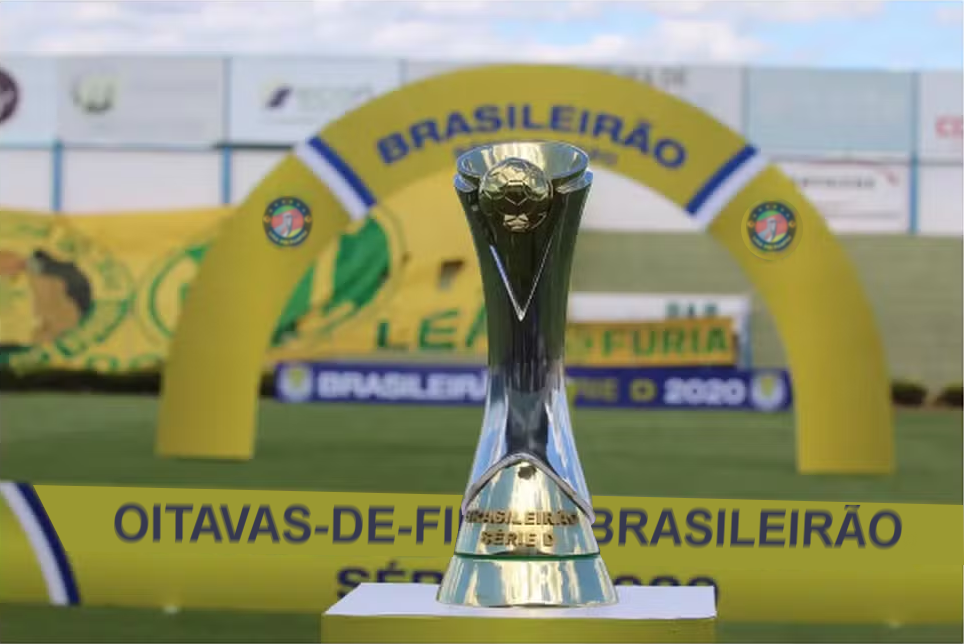
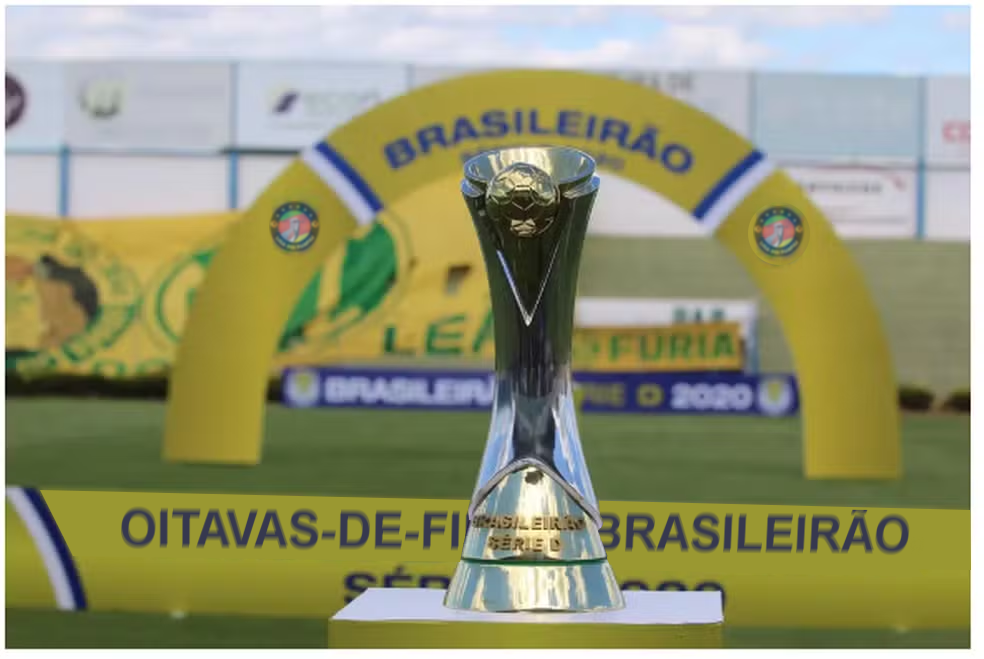
série d

diff --git a/news/news-ano24prejornada29-2.html b/news/news-ano24prejornada29-2.html
@@ -56,10 +56,10 @@
 
 
 <p style="font-family: verdana; font-size: 20px;text-align: end;color: rgb(163, 160, 160);padding-right: 3%;padding-left:3%;text-indent:15%; line-height: 60px;">   
-    <i>Redação Cartola -  01/10/2024 - 09h55min</i>
+    <i>Redação Cartola -  01/10/2024 - 11h35min</i>
 
 
-    <img src="../news/capas-news/reportagem-temp24-prejornada29-1.jpg" style="height:600px;width: 99%;padding-left: 3px;">
+    <img src="../news/capas-news/reportagem-temp24-prejornada29-2.png" style="height:1400px;width: 99%;padding-left: 3px;">
 
 
 <p style="font-family: verdana; font-size: 40px;text-align: justify;color: grey;padding-right: 3%;padding-left:3%;text-indent:15%; line-height: 60px;">    
@@ -68,42 +68,26 @@
 
 
     <p style="font-family: verdana; font-size: 40px;text-align: justify;color: grey;padding-right: 3%;padding-left:3%;text-indent:15%; line-height: 60px;">    
-        Apesar de já classificado, a sexta e última rodada da primeira fase marcará a disputa dos "galáticos" contra o Milan do "Milaneros" pela primeira colocação do grupo.
-        Para tanto, neste confronto, ao Real Madrid só a vitória interessa, já que o Milan entra nesta próxima quinta-feira com um ponto a mais que os merengues (10 pontos),
-         precisando apenas de um empate para assegurar a liderança do quarteto. Lembrando que a liderança do grupo confere o privilégio de jogar contra o segundo colocado 
-         do grupo B com a vantagem de dois empates.  
+        Destes, há varios clubes abertos à contratação de treinadores, aos quais você fica sabendo dos valores através deste <a href="../planos.html">atalho</a>.. 
+        
+        <h2 style="text-align: center; font-family: 'Trebuchet MS'; font-size: 40px; color: rgb(66, 65, 65);">Amazonas e Barcelona como Favoritos</h2>
 
-        <h2 style="text-align: center; font-family: 'Trebuchet MS'; font-size: 40px; color: rgb(66, 65, 65);">Grupo C</h2>
+
 
         <p style="font-family: verdana; font-size: 40px;text-align: justify;color: grey;padding-right: 3%;padding-left:3%;text-indent:15%; line-height: 60px;">    
-            No grupo C temos outros dois clubes classificados para o mata-mata: Internazionale de Milão do "Cearúcho FC", com 10, e o Borrussia Dortumund do 
-            "SER XANTOSKA", com 7, restando Manchester United (Anderson United) e Atlético Madrid (XEIROSO FC) já sem chances de classificação 
-
-            <h2 style="text-align: center; font-family: 'Trebuchet MS'; font-size: 40px;color: rgb(66, 65, 65)">Grupo D</h2>
-
-            <p style="font-family: verdana; font-size: 40px;text-align: justify;color: grey;padding-right: 3%;padding-left:3%;text-indent:15%; line-height: 60px;">    
-                No Grupo "D" temos o Ajax do cartoleiro "UGÃO F.C." como dono da melhor campanha da fase de grupos, com cinco vitórias em cinco jogos, restando ao
-                Chelsea (Colchonero BH), com 7, e  ao PSG (VMRB), com 6, lutar pela segunda colocação do grupo no confronto direto nesta última rodada.
+            Dentre os classificados, amplo favoritismo para o Barcelona, do "Junasso13" e, principalmente, do Amazonas FC, captaneado pelo estreante "ZecaPraGordinho23",
+            de campanha heróica na Copa do Brasil, desbancando clubes importantes, só parado nas quartas-de-finais pelo poderoso Palmeiras do "Alemão Colorado 75"
+        </p>         
         
-                <h2 style="text-align: center; font-family: 'Trebuchet MS'; font-size: 40px;color: rgb(66, 65, 65)">Grupo B</h2>
 
-                <p style="font-family: verdana; font-size: 40px;text-align: justify;color: grey;padding-right: 3%;padding-left:3%;text-indent:15%; line-height: 60px;">    
-                    Neste quarteto é onde a útima rodada apresenta os contornos mais dramáticos, onde três clubes (Arsenal, Juventus e Barcelona) lutam pelas duas vagas em aberto,
-                    com destaque para o confronto direto entre Arsenal contra o Barça, enquanto a Juventus entra em campo contra o saco-de-pancadas Tottenham Hotspurs, único clube
-                    "zerado" nesta fase de grupos 
-
-                    <h2 style="text-align: center; font-family: 'Trebuchet MS'; font-size: 40px;color: rgb(66, 65, 65)">Premiação, pontuação no ranking geral e Mundial de Clubes 2024</h2>
-
-                    <p style="font-family: verdana; font-size: 40px;text-align: justify;color: grey;padding-right: 3%;padding-left:3%;text-indent:15%; line-height: 60px;">    
-                        Campeão leva 330 reais e 70pts no ranking geral de treinadores, e  o vice, 100 reais. Além disso, campeão e vice classificam-se gratuitamente para a disputa do Mundial de Clubes de Cartola,
-                        com o vice iniciando desde a primeira fase, enquanto o campeão, a exemplo do vencedor da Libertadrores, ingressa diretamente nas semifinais da competição.
+        <h2 style="text-align: center; font-family: 'Trebuchet MS'; font-size: 40px; color: rgb(66, 65, 65);">Mais informações</h2>
 
 
-                        <h2 style="text-align: center; font-family: 'Trebuchet MS'; font-size: 40px;color: rgb(66, 65, 65)">Link de acesso</h2>
 
-                        <p style="font-family: verdana; font-size: 40px;text-align: justify;color: grey;padding-right: 3%;padding-left:3%;text-indent:15%; line-height: 60px;">    
-                            O torneio pode ser acessado via menu "campeonatos estrangeiros". Depois, é só clicar  sobre a imagem da competição. Ou então clicando neste 
-                            <a href="../champions.html">atalho</a>.
+        <p style="font-family: verdana; font-size: 40px;text-align: justify;color: grey;padding-right: 3%;padding-left:3%;text-indent:15%; line-height: 60px;">    
+            Para vizualizar o chaveamento completo,  valor das premiações, regras de desempate, etc, é só acessar "Série D" em nosso menu, ou
+            <a href="../serie_d.html">clicando aqui</a>.. .
+        </p>         
         
     
 
